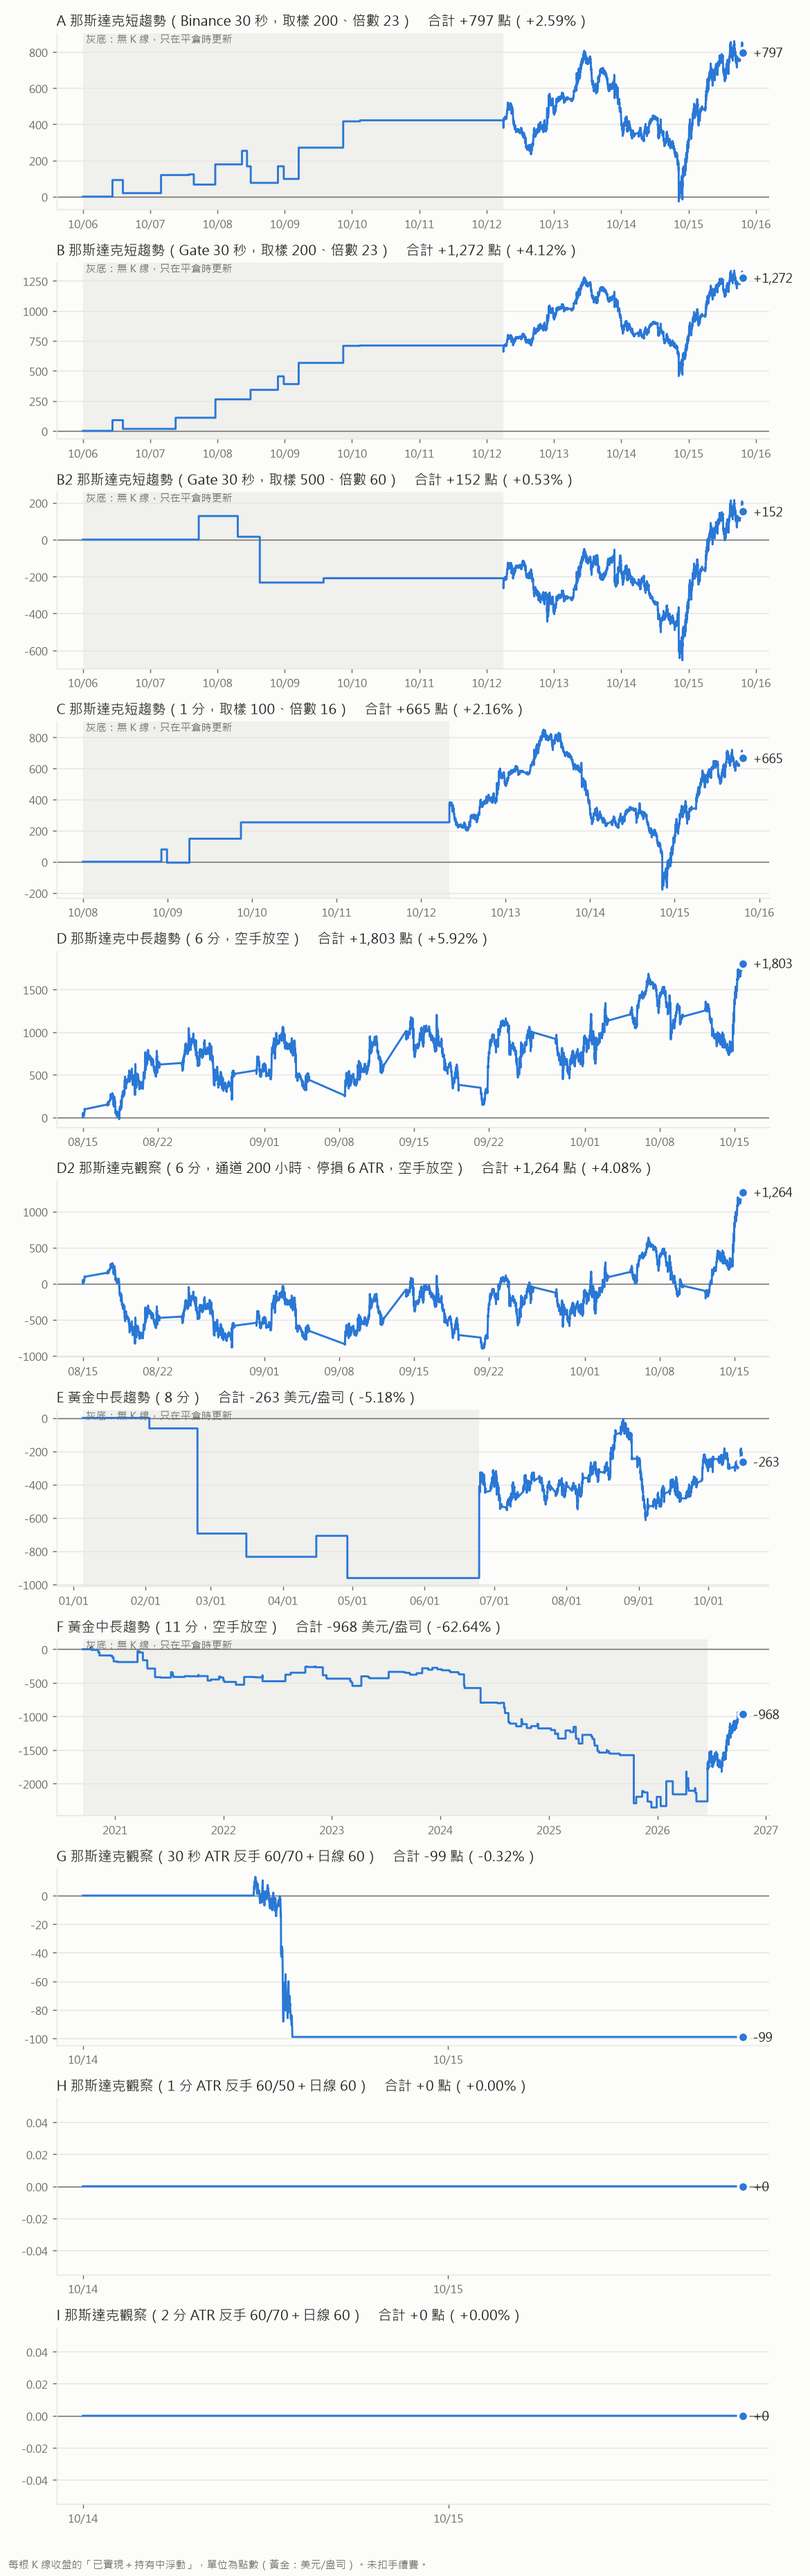
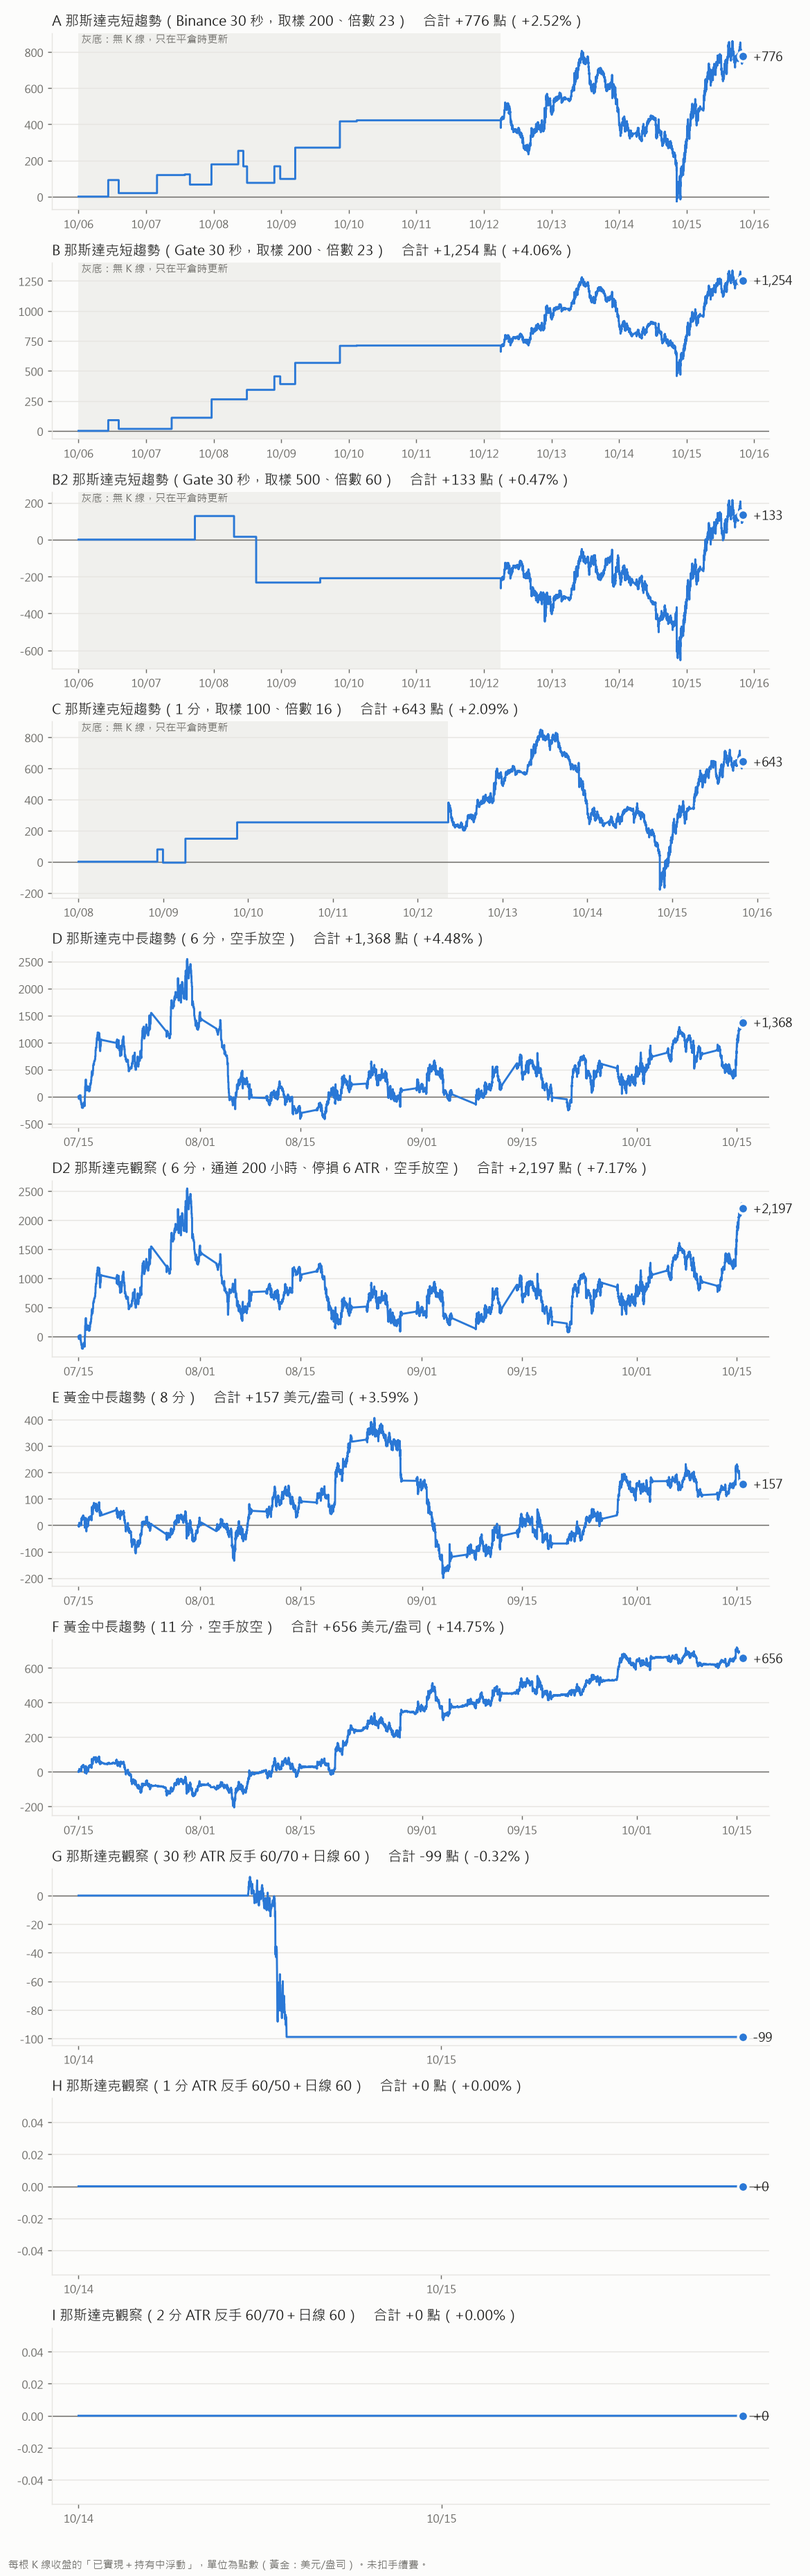
紀錄起算日改為短趨勢 10/6、中長趨勢 7/15 並重算
使用者 2026-10-15 定的原則。D、D2、E、F 舊列刪除後由程式從 7/15 重算；
D、D2 在真 5 分 K 之前用小時 K 拆成 6 分 K 近似。C 格 Hyperliquid 回不到 10/6，維持 10/8。

diff --git a/實際紀錄/更新紀錄.py b/實際紀錄/更新紀錄.py
@@ -18,7 +18,8 @@
 - 只往後追加，不改舊列。舊列就是當時的實際紀錄，日後資料源修正也不回頭改。
 - C 格用單一月份合約算訊號與損益，不用連續月（連續月換月時有價差，回測會失真）。
   換月日如果有部位，記一筆「換倉」：舊約平倉、新約同時開倉，價差照實算進損益。
-- 起算日：A、B 從 2026-10-06，C、D、E 從 2026-08-15。起算當下已有的部位，以起算時的價格記「起算持有」。
+- 起算日（2026-10-15 起）：短趨勢 A、G、G2 從 2026-10-06（B 回不到，從 10-08），中長趨勢 C、C2、D、E 從 2026-07-15。
+  C、C2 在真 5 分 K（只有 60 天）之前用小時 K 拆成的 6 分 K 算，那段是近似值。起算當下已有的部位，以起算時的價格記「起算持有」。
 - 價格是訊號那根 K 棒的收盤價，未扣手續費與滑價。
 
 只用 Python 內建模組，三台電腦都能直接跑。
@@ -43,8 +44,10 @@ def ms(y, m, d, h=0):  # 台北時間 → 毫秒
 # 紀錄檔裡原本的「A」欄位就是 A-1（舊紀錄只追加不改，欄位名稱不動）。
 # E（2026-10-12 加入）＝黃金上方策略，起算日比照 C、D。
 # G（2026-10-12 加入，取代 A-2）＝Gate 版，起算日與 A-1 同為 10/6，方便並排比較。A2 舊列保留但不再更新、不再印績效。
-START = {"A": ms(2026, 10, 6), "A2": ms(2026, 10, 6), "G": ms(2026, 10, 6), "B": ms(2026, 10, 8), "C": ms(2026, 8, 15), "D": ms(2026, 1, 5), "E": ms(2020, 9, 15),
-         "R30": ms(2026, 10, 14), "R1": ms(2026, 10, 14), "R2": ms(2026, 10, 14), "C2": ms(2026, 8, 15), "G2": ms(2026, 10, 6)}
+# 2026-10-15 使用者定的原則：短趨勢頁從 10/6、中長趨勢頁（C、C2、D、E）從 7/15 起算，取代下面註解裡的舊起算日。
+# B（畫面 C）是 Hyperliquid，只能回溯約 3.5 天，紀錄早已從 10/8 開始，回不到 10/6，維持 10/8。
+START = {"A": ms(2026, 10, 6), "A2": ms(2026, 10, 6), "G": ms(2026, 10, 6), "B": ms(2026, 10, 8), "C": ms(2026, 7, 15), "D": ms(2026, 7, 15), "E": ms(2026, 7, 15),
+         "R30": ms(2026, 10, 14), "R1": ms(2026, 10, 14), "R2": ms(2026, 10, 14), "C2": ms(2026, 7, 15), "G2": ms(2026, 10, 6)}
 # G2（畫面 B2，2026-10-15 使用者要求）：同 G 的 Gate 30 秒資料，Range Filter 取樣 500、倍數 60。起算比照 G 的 10/6 方便並排；10/15 以前是回算。
 # C2（畫面 D2，2026-10-15 使用者要求）：同 C 的資料與算法，參數 200 小時／停損 6 ATR、空手改放空。起算比照 C 的 8/15 方便並排；
 # 10/15 以前是回算、不是當時實際記的。換月（12/11）時跟 R2 一樣還不會記換倉。
@@ -601,9 +604,10 @@ if __name__ == "__main__":
                  "換算那斯達克": "", "合約": act[1], "備註": f"空手換到 {act[1]}", "時間戳": BC[i_roll][0]}
         added.append(r); LOG_ROWS.append(r)
     added += switch_rule("C", BC, posC, act[1])
-    added += update("C", BC, posC, wC, act[1], min_t=real_from); LAST["C"] = (BC[-1][4], BC[-1][0], None)
+    # 2026-10-15 起算改 7/15，早於真 5 分 K（real_from），不再用 min_t 擋，前段是小時 K 拆出來的近似
+    added += update("C", BC, posC, wC, act[1]); LAST["C"] = (BC[-1][4], BC[-1][0], None)
     posC2, wC2 = calc_don(BC, 200, 6, "long", 6); posC2 = flat_short(posC2)   # D2：同一份 K 線，只換參數
-    added += update("C2", BC, posC2, wC2, act[1], min_t=real_from); LAST["C2"] = LAST["C"]
+    added += update("C2", BC, posC2, wC2, act[1]); LAST["C2"] = LAST["C"]
 
     print("抓 D：Binance XAUUSDT 1 分 K")
     BD = bars_D(min(last_t("D", START["D"]), NOW) - 70 * 86400000); posD, wD = calc_don(BD, 350, 8, "both", 8)
